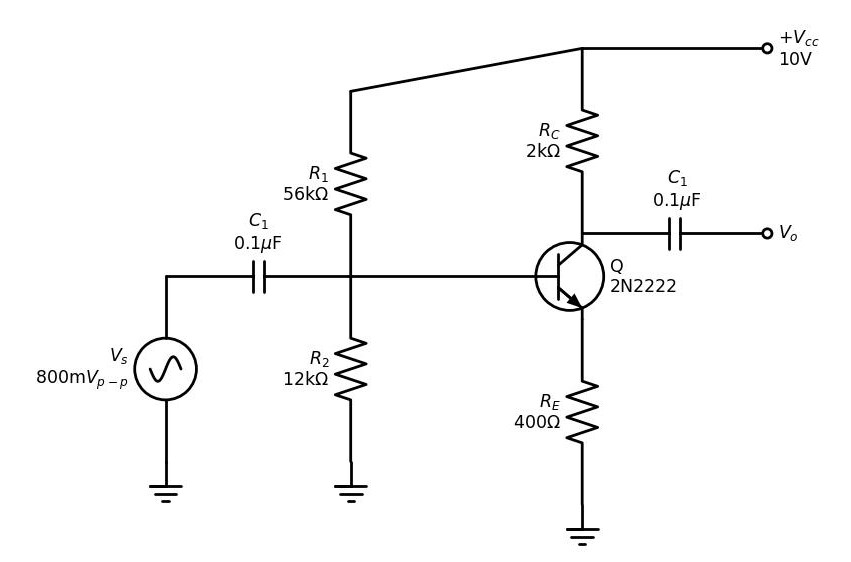
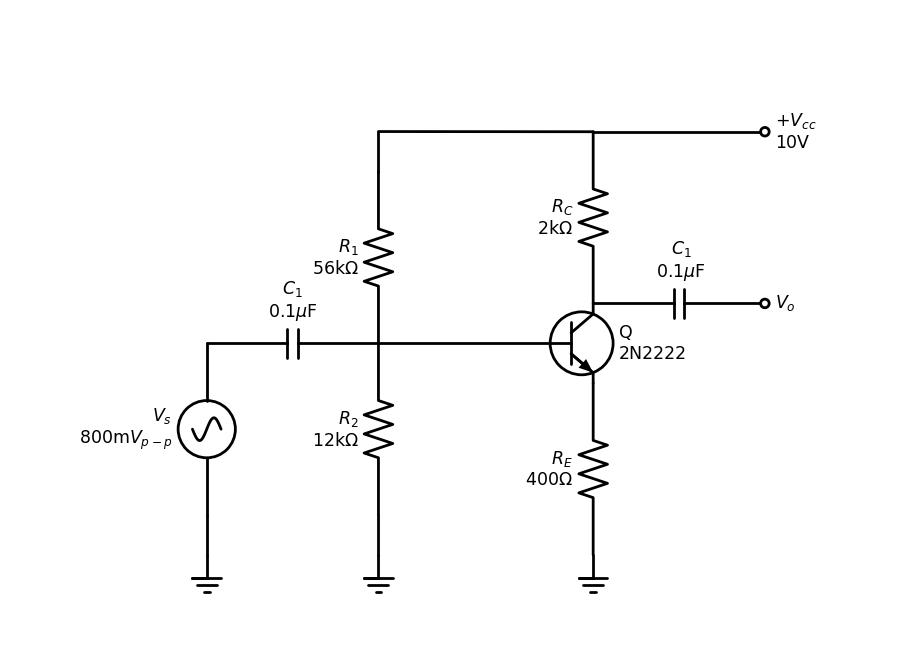
Added new lines to make the diagram good!

Changed region(s): [[0.0306, 0.0605, 0.9777, 0.968], [0.4583, 0.121, 0.5499, 0.1512]]

diff --git a/Frequency response analysis of VDB BJT.py b/Frequency response analysis of VDB BJT.py
@@ -3,16 +3,19 @@ import schemdraw.elements as elm
 
 with schemdraw.Drawing() as d:
     d += (G1 := elm.Ground())
-    d += (S1 := elm.SourceSin().up().label('$V_s$\n800m$V_{p-p}$'))
+    d += (Lg := elm.Line().at(G1.end).up().length(0.7))
+    d += (S1 := elm.SourceSin().up().at(Lg.end).label('$V_s$\n800m$V_{p-p}$'))
     d += (C1 := elm.Capacitor().right().label('$C_1$\n0.1$\mu$F'))
     d += (R1 := elm.Resistor().at(C1.end).up().label('$R_1$\n56k$\Omega$'))
     d += (R2 := elm.Resistor().at(C1.end).down().label('$R_2$\n12k$\Omega$'))
     d += (L1 := elm.Line().at(C1.end).right())
     d += (Q := elm.BjtNpn(circle=True).right().anchor('base').at(L1.end).label('Q\n2N2222'))
+    d += (Lp := elm.Line().up().at(R1.end).length(0.7))
     d += (R3 := elm.Resistor().at(Q.collector).up().label('$R_C$\n2k$\Omega$'))
-    d += (L2 := elm.Line().endpoints(R3.end, R1.end))
+    d += (L2 := elm.Line().endpoints(R3.end, Lp.end))
     d += (R4 := elm.Resistor().at(Q.emitter).down().label('$R_E$\n400$\Omega$'))
     d += (G2 := elm.Ground().at(R4.end))
-    d += (G3 := elm.Ground().at(R2.end))
+    d += (Ly := elm.Line().down().at(R2.end).length(0.7))
+    d += (G3 := elm.Ground().at(Ly.end))
     d += (C2 := elm.Capacitor().right().at(Q.collector).label('$C_1$\n0.1$\mu$F').dot(open=True).label('$V_o$', 'right'))
     d += (L3 := elm.Line().right().at(R3.end).dot(open=True).label('$+V_{cc}$\n10V', 'right'))
